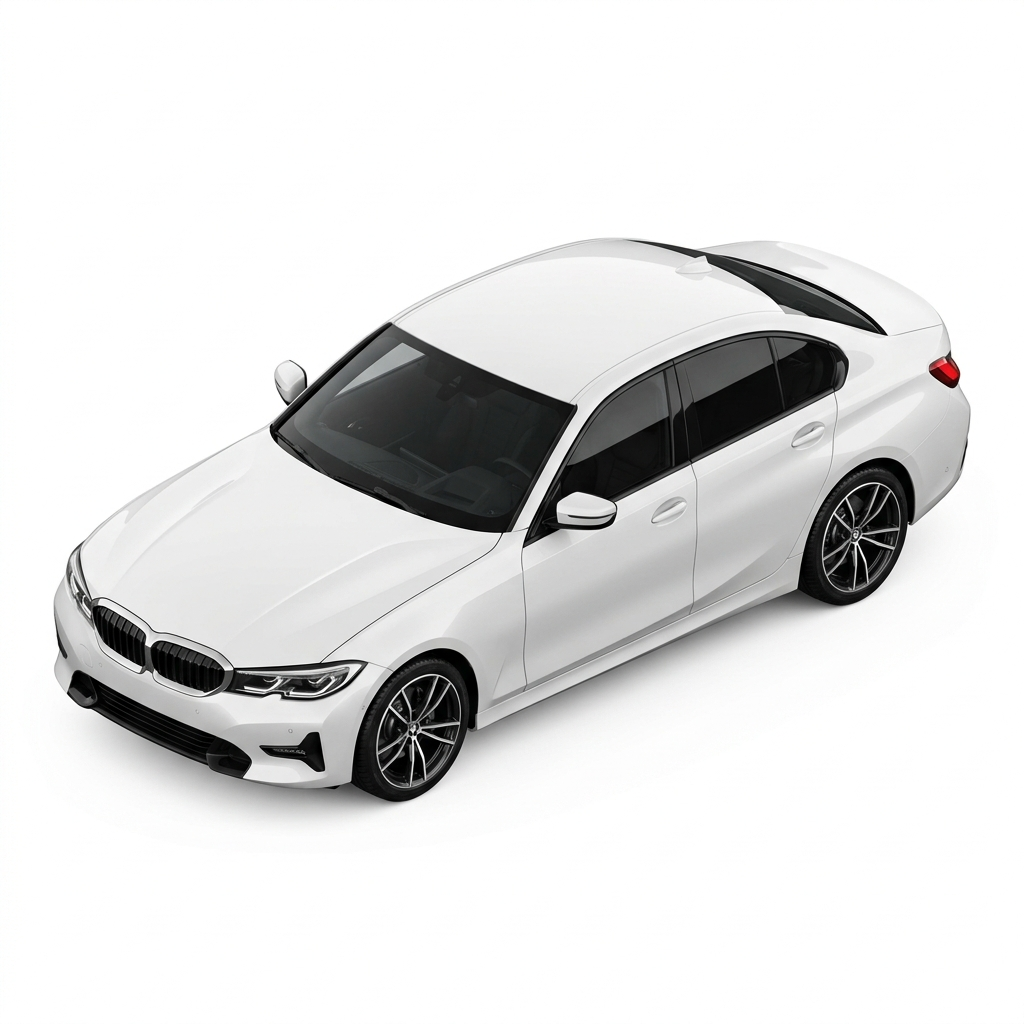
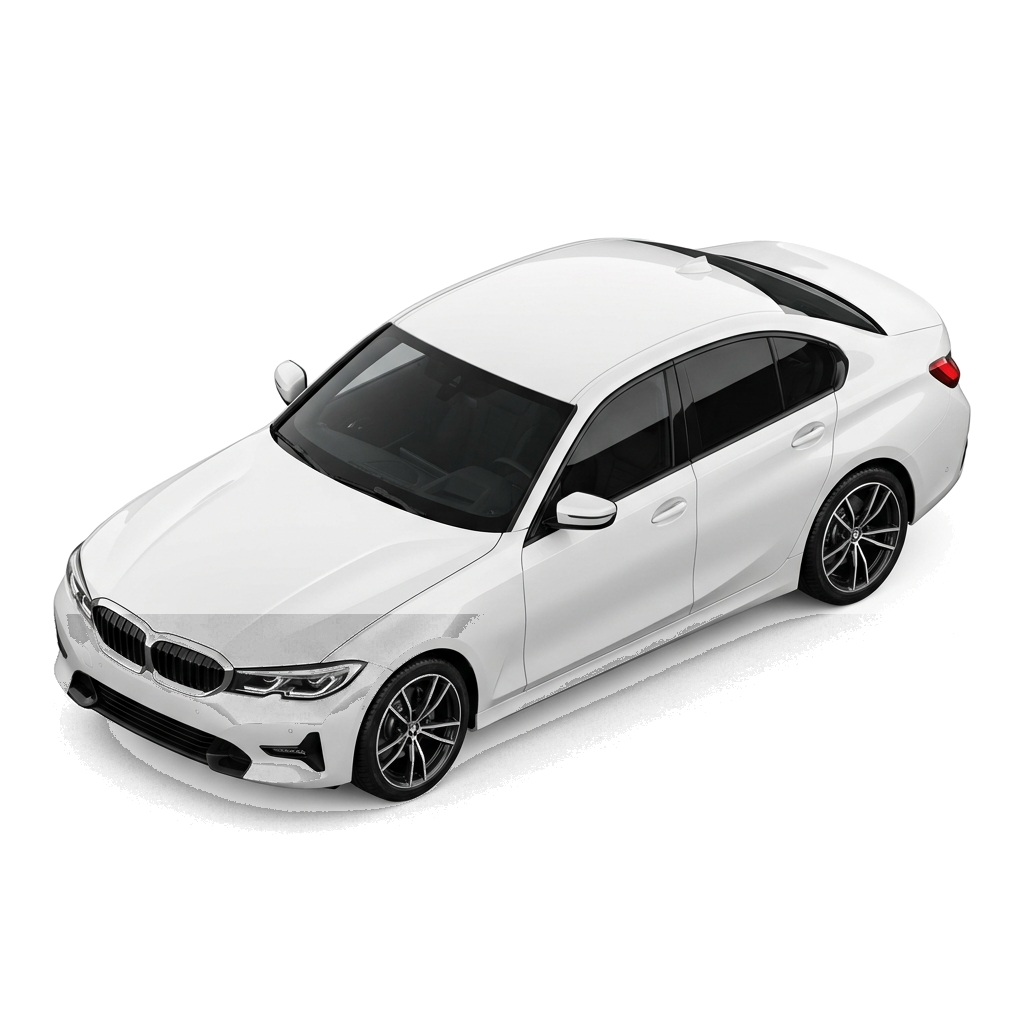
Remove image square borders: convert hero images to transparent PNGs and remove drop-shadow bounding boxes

Changed region(s): [[0.0625, 0.5938, 0.4688, 0.8125], [0.4062, 0.5938, 0.8125, 0.7812], [0.0625, 0.5938, 0.0938, 0.625]]

diff --git a/laravel_web/resources/views/welcome.blade.php b/laravel_web/resources/views/welcome.blade.php
@@ -57,7 +57,7 @@
                             <!-- Vehicle Image with Radiant Glow Behind -->
                             <div class="relative w-[120%] h-40 -mx-[10%] mt-auto flex items-center justify-center overflow-visible mb-5">
                                 <div class="absolute w-28 h-28 rounded-full bg-amber-400/30 blur-2xl -z-10 pointer-events-none"></div>
-                                <img src="{{ asset('images/hero-ride.png') }}" alt="Ride" class="w-full h-full object-contain transition-transform duration-500 group-hover:scale-105 drop-shadow-md" style="mix-blend-mode: multiply;">
+                                <img src="{{ asset('images/hero-ride.png') }}" alt="Ride" class="w-full h-full object-contain transition-transform duration-500 group-hover:scale-105">
                             </div>
                             
                             <!-- Button -->
@@ -91,7 +91,7 @@
                             <!-- Vehicle Image with Radiant Glow Behind -->
                             <div class="relative w-[120%] h-40 -mx-[10%] mt-auto flex items-center justify-center overflow-visible mb-5">
                                 <div class="absolute w-28 h-28 rounded-full bg-blue-400/30 blur-2xl -z-10 pointer-events-none"></div>
-                                <img src="{{ asset('images/hero-rent.png') }}" alt="Rent" class="w-full h-full object-contain transition-transform duration-500 group-hover:scale-105 drop-shadow-md" style="mix-blend-mode: multiply;">
+                                <img src="{{ asset('images/hero-rent.png') }}" alt="Rent" class="w-full h-full object-contain transition-transform duration-500 group-hover:scale-105">
                             </div>
                             
                             <!-- Button -->
@@ -128,7 +128,7 @@
                             <!-- Vehicle Image with Radiant Glow Behind -->
                             <div class="relative w-[120%] h-40 -mx-[10%] mt-auto flex items-center justify-center overflow-visible mb-5">
                                 <div class="absolute w-28 h-28 rounded-full bg-emerald-400/30 blur-2xl -z-10 pointer-events-none"></div>
-                                <img src="{{ asset('images/hero-hire.png') }}" alt="Driver" class="w-full h-full object-contain object-bottom transition-transform duration-500 group-hover:scale-105 drop-shadow-md" style="mix-blend-mode: multiply;">
+                                <img src="{{ asset('images/hero-hire.png') }}" alt="Driver" class="w-full h-full object-contain object-bottom transition-transform duration-500 group-hover:scale-105">
                             </div>
                             
                             <!-- Button -->
@@ -164,7 +164,7 @@
                             <!-- Vehicle Image with Radiant Glow Behind -->
                             <div class="relative w-[120%] h-40 -mx-[10%] mt-auto flex items-center justify-center overflow-visible mb-5">
                                 <div class="absolute w-28 h-28 rounded-full bg-purple-400/30 blur-2xl -z-10 pointer-events-none"></div>
-                                <img src="{{ asset('images/hero-delivery.png') }}" alt="Deliver" class="w-full h-full object-contain transition-transform duration-500 group-hover:scale-105 drop-shadow-md" style="mix-blend-mode: multiply;">
+                                <img src="{{ asset('images/hero-delivery.png') }}" alt="Deliver" class="w-full h-full object-contain transition-transform duration-500 group-hover:scale-105">
                             </div>
                             
                             <!-- Button -->
